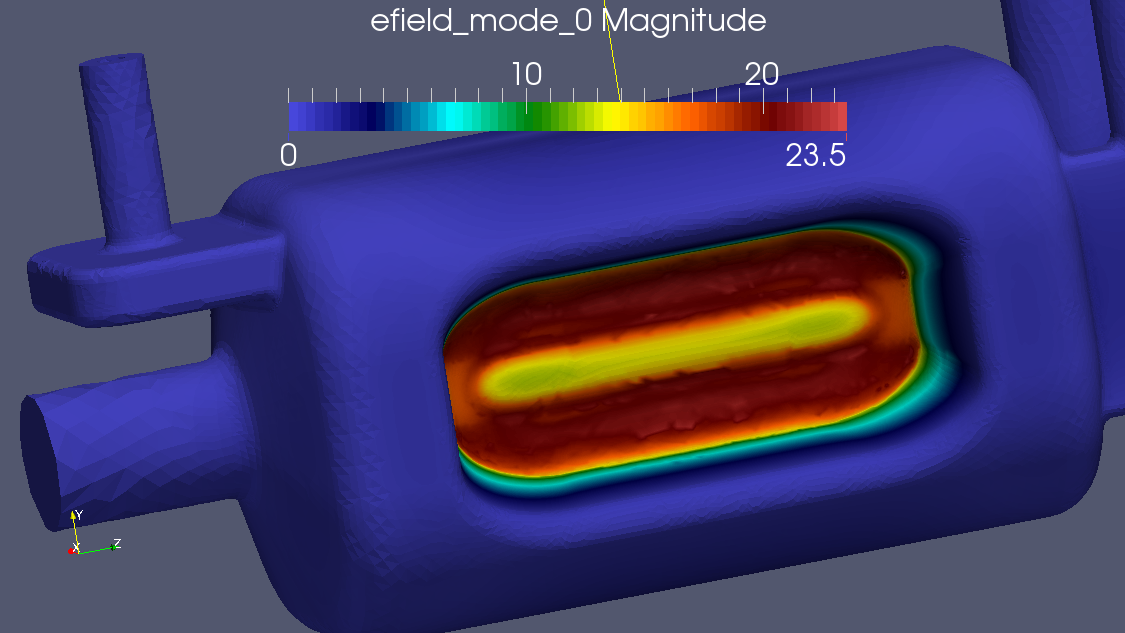
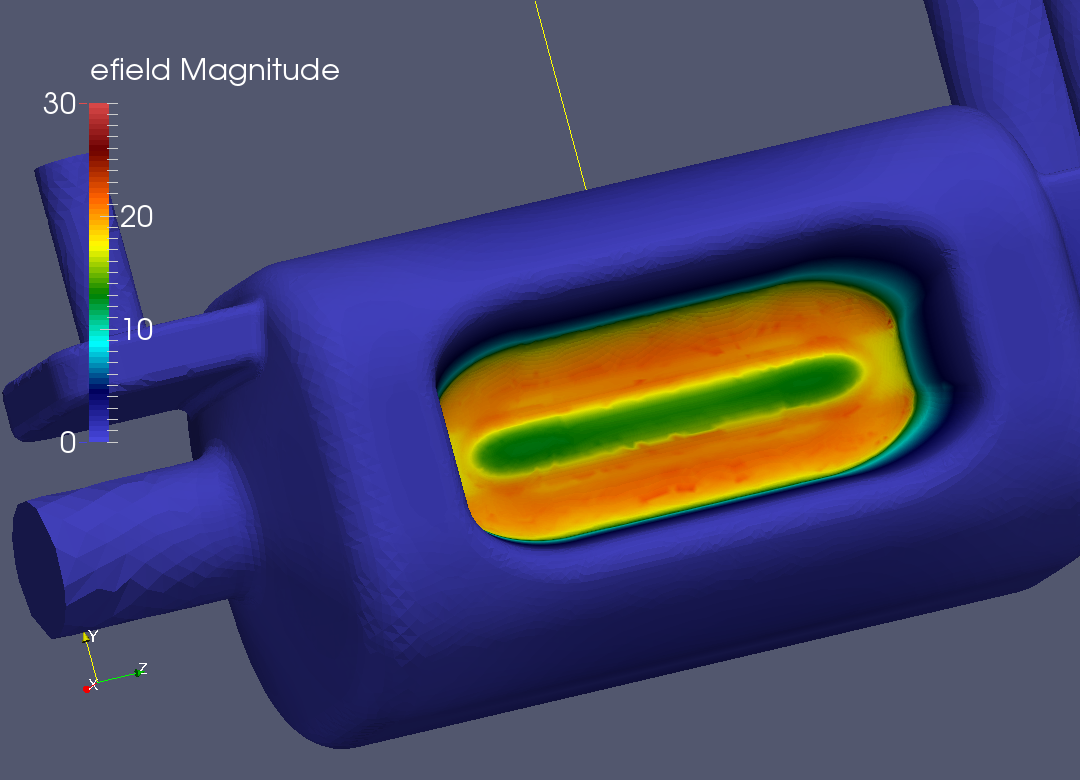
updated cav figures

diff --git a/ace3p_progress_report/curve_adapt_report/curve_adapt_report.tex b/ace3p_progress_report/curve_adapt_report/curve_adapt_report.tex
@@ -351,14 +351,14 @@ In particular, Fig. \ref{pill} shows the results for the smaller ``PILLBOX''. We
 \begin{landscape}
 \begin{figure}[ph!]
 \centering
-\subfigure[]{\label{cav_init}\includegraphics[width=0.55\textwidth]{al_0_ar_0p0125_126044_elems.png}}
+\subfigure[]{\label{cav_init_field}\includegraphics[width=0.55\textwidth]{al_0_ar_0p0125_126044_elems_e_field.png}}
 \hspace*{50pt}
-\subfigure[]{\label{cav_size}\includegraphics[width=0.55\textwidth]{al_0_ar_0p0125_126044_elems_size_field.png}}
+\subfigure[]{\label{cav_init_mesh}\includegraphics[width=0.55\textwidth]{al_0_ar_0p0125_126044_elems_mesh.png}}
 \\
-\subfigure[]{\label{cav_adapt}\includegraphics[width=0.55\textwidth]{al_3_ar_0p0125_386896_elems.png}}
+\subfigure[]{\label{cav_final_field}\includegraphics[width=0.55\textwidth]{al_3_ar_0p0125_386896_elems_e_field.png}}
 \hspace*{50pt}
-\subfigure[]{\label{cav_field}\includegraphics[width=0.55\textwidth]{al_3_ar_0p0125_386896_elems_e_field.png}}
-\caption{\label{cav} This Figure shows the results for the CAV17 model. (a) shows the initial mesh [$\sim126\text{K}$ elements], (b) shows the initial size-field, (c) shows the adapted mesh after 3 adaptation steps [$\sim380\text{K}$ elements], and (d) shows the electric field for the final adapted mesh.}
+\subfigure[]{\label{cav_final_mesh}\includegraphics[width=0.55\textwidth]{al_3_ar_0p0125_386896_elems_mesh.png}}
+\caption{\label{cav}  This Figure shows the results for the CAV17 model. (a) shows the first eigen-mode electric field on the initial mesh (b) shows the initial  mesh [$\sim126\text{K}$ elements], (c) shows the first eigen-mode electric field on the final adapted mesh, and (d) shows the final adapted mesh [$\sim380\text{K}$ elements] after 3 adaptation level.}
 \end{figure}
 \end{landscape}
 \subsection{\label{adaptive_loop_future} Future Steps}
